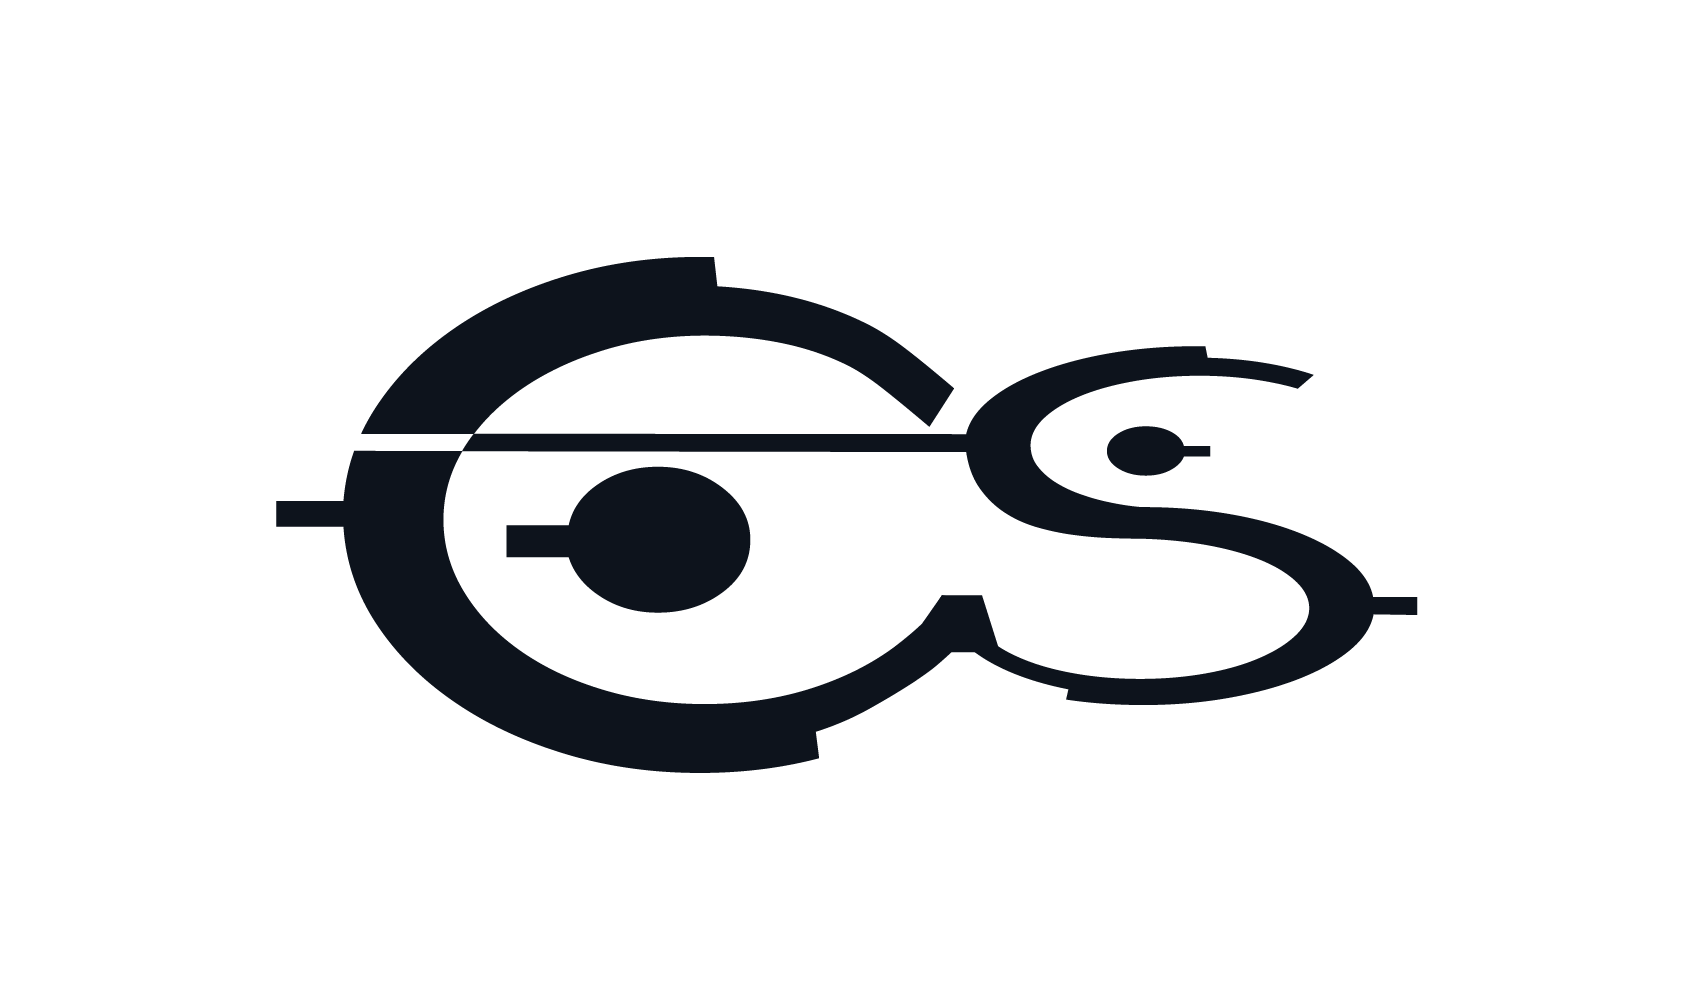
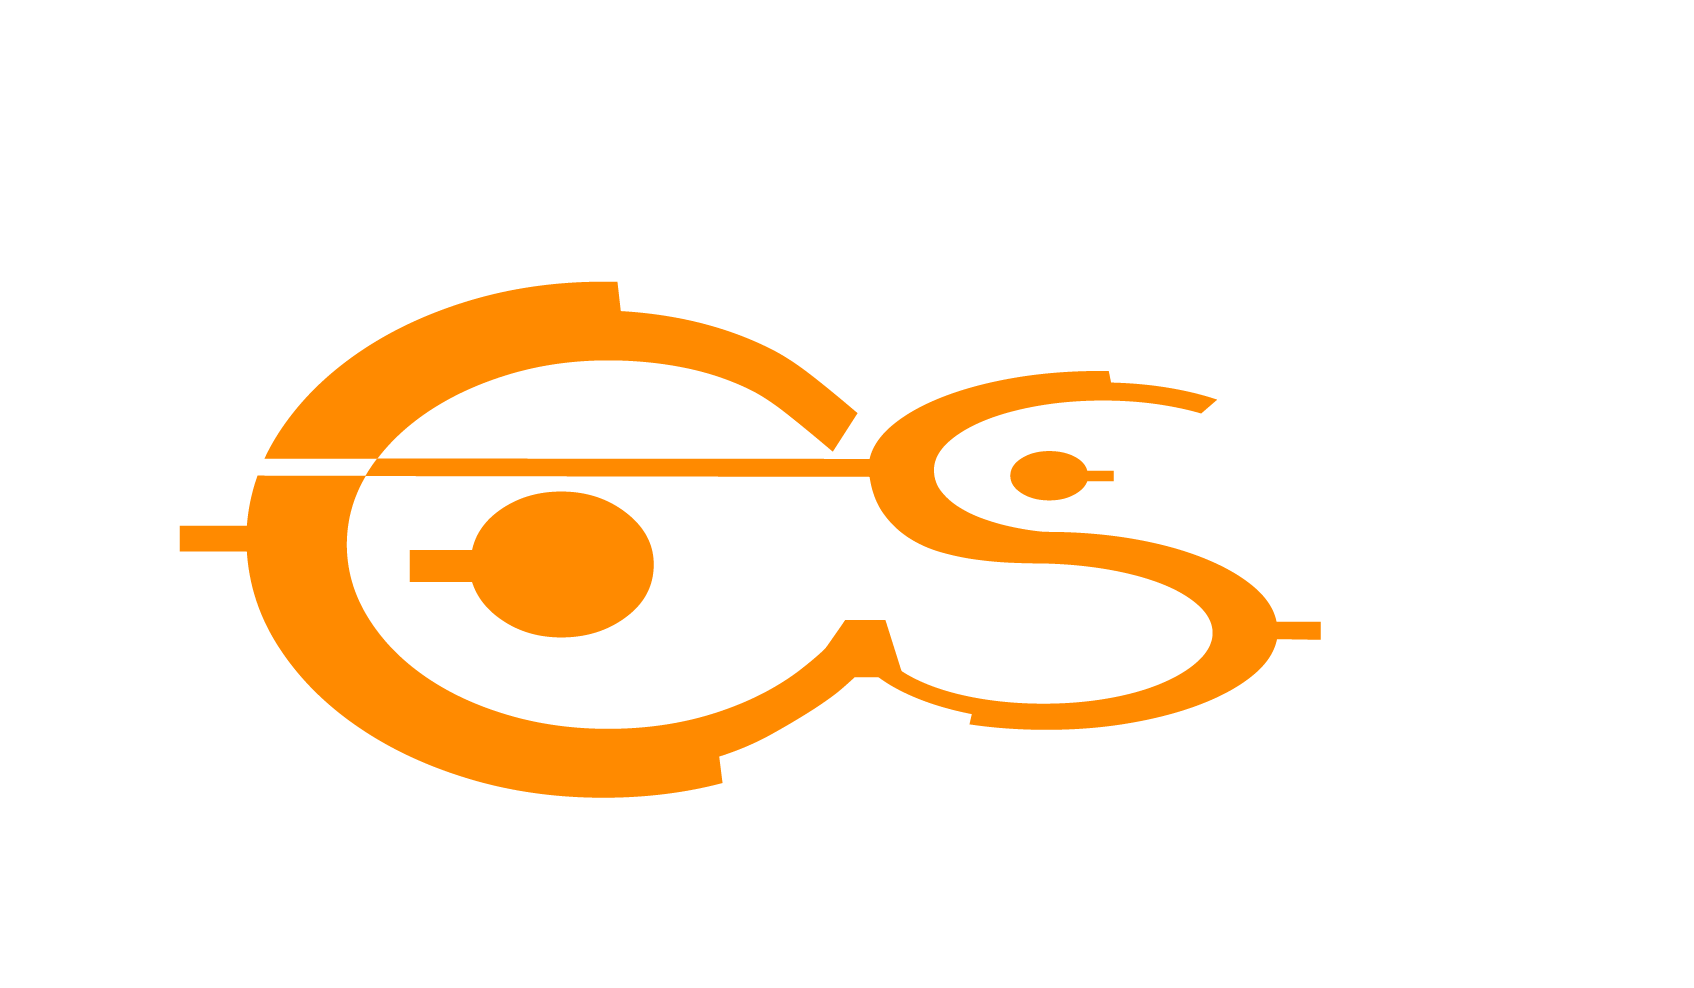
Se corrige fondo de pantalla para que se vea completo

Changed region(s): [[0.0921, 0.2429, 0.8595, 0.8198]]

diff --git a/src/app/shared/header/header.component.scss b/src/app/shared/header/header.component.scss
@@ -18,28 +18,11 @@
     right: 0;
     height: 100%;
     background: var(--background-image);
-    background-size: cover;
+    background-size: 100% 100vh;
     background-position: center;
     background-attachment: fixed;
     z-index: -1;
     pointer-events: none;
-  }
-
-  // Máscara adicional específica para modo light
-  &::after {
-    content: '';
-    position: absolute;
-    top: 0;
-    left: 0;
-    right: 0;
-    height: 100%;
-    background-color: #ffffff;
-    z-index: -2;
-    pointer-events: none;
-    
-    [data-theme="dark"] & {
-      background-color: #1a1a1a;
-    }
   }
 
   .header-container {

diff --git a/src/styles.scss b/src/styles.scss
@@ -10,8 +10,8 @@
   --secondary-bg: #f8f9fa;
   --text-primary: #333333;
   --text-secondary: #666666;
-  --accent-color: #0056b3;
-  --accent-hover: #004494;
+  --accent-color: #ff8a00;
+  --accent-hover: #ff8a00;
   --border-color: #e0e0e0;
   --shadow: 0 2px 10px rgba(0, 0, 0, 0.1);
   
@@ -75,7 +75,7 @@ html {
 body {
   font-family: var(--font-family);
   background-image: var(--background-image);
-  background-size: cover;
+  background-size: 100% 100%;
   background-position: center;
   background-repeat: no-repeat;
   background-attachment: fixed;
